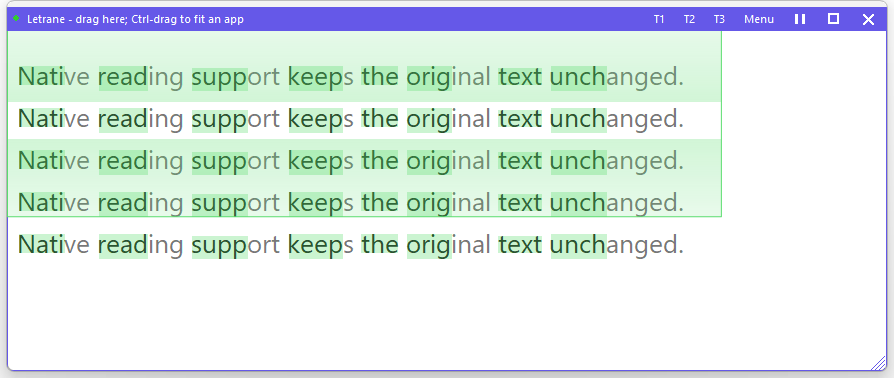
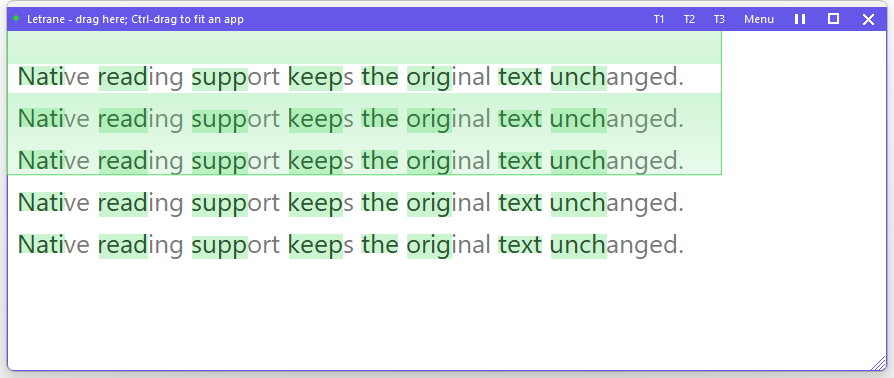
Publish Letrane 0.3.1 focus-guide documentation and screenshots

Changed region(s): [[0.0, 0.1455, 0.8154, 0.3783], [0.0, 0.4656, 0.8154, 0.582]]

diff --git a/README.md b/README.md
@@ -14,7 +14,20 @@ It is not a medical treatment and does not guarantee improved reading.
 
 **[Download the latest signed Windows EXE](https://github.com/SimonSkotheimsvik/Letrane-Releases/releases/latest)**
 
-## New in 0.3.0: native and lightweight
+## New in 0.3.1: more room to focus
+
+- Choose **1, 3, 5, 7 or 9 lines in frame**, and any odd **Lines in focus**
+  count up to that size. The focus stays centered and clear, with soft gradient
+  bands above and below it. Only the outer frame has an outline.
+- Templates preserve frame and focus counts. Shrinking the frame clamps focus
+  to the largest valid choice. The old Top/Middle selector and gradient checkbox
+  have been replaced by Lines in focus; older settings migrate to one focus line.
+- Settings sliders redraw cleanly during dragging and keyboard adjustments.
+- Template save/apply messages appear only in the normal footer.
+- Optional reporting supports the new choices, with richer Azure workbook
+  charts for usage, adoption, preferences, reporting activity and service signals.
+
+## Native and lightweight since 0.3.0
 
 Letrane has been rebuilt in native C++ using Windows APIs, replacing the bundled
 .NET/WPF application. The signed portable EXE is under 1 MB rather than roughly
@@ -74,8 +87,8 @@ of words.
   over the text you want to follow.
 - **Make the emphasis comfortable:** choose colors, emphasize the first 1–5
   characters, and adjust highlight strength or word-tail fading.
-- **Guide your place:** optionally follow the mouse with a thin reading-line
-  frame and one, three or five line-sized slots.
+- **Guide your place:** follow the mouse with a 1/3/5/7/9-line outer frame and
+  a clear centered focus area; gradients mark the lines outside the focus.
 - **Keep changes smooth:** tune how the markings respond to small webpage changes.
 - **Match your desktop:** use System, Light or Dark appearance.
 - **Start simply:** the Help tab opens first, with three quick steps and a
@@ -85,7 +98,7 @@ of words.
 
 ## Screenshots
 
-These are new captures of the actual native 0.3.0 interface, using synthetic
+These are new captures of the actual native 0.3.1 interface, using synthetic
 demonstration text and example statistics only. No personal documents or desktop
 content are shown. All screenshots of the earlier WPF app have been replaced.
 
@@ -115,7 +128,7 @@ Mouse-wheel scrolling never accidentally changes sliders or selectors.
 ### Statistics and About
 
 ![Local statistics and reporting preferences](assets/screenshots/statistics-dark.png)
-![About Letrane 0.3.0](assets/screenshots/about-dark.png)
+![About Letrane 0.3.1](assets/screenshots/about-dark.png)
 
 ## Reading templates
 
@@ -132,8 +145,10 @@ the menu.
 - **T3:** Green highlights plus tail fading, 4 characters, about 71% strength,
   five-line mouse guide with gradient.
 
-All three starter templates use smoothing at 3%, Middle placement and System
-theme. Existing saved slots and current reading options are preserved. Templates
+All three starter templates use smoothing at 3%, centered one-line focus and
+System theme. Existing slots and reading preferences are preserved except the
+retired Top/Middle and gradient settings, which migrate to centered one-line
+focus with gradient outside it. Templates
 never change assistance on/off, window position, Help preview, usage sharing or
 update-check preferences. Saved template contents stay on your device.
 
@@ -142,7 +157,9 @@ update-check preferences. Saved template contents stay on your device.
 The new defaults are **Smooth changes: 3%**, **Lead emphasis: 2** and
 **Tail fade strength: 75%**. **Highlight color** starts off, with **Yellow**
 selected; **Fade word tails** starts on. **Follow mouse** starts on with
-**3 lines**, **Middle** placement and **gradient fill**. **Color theme** is
+**3 lines in frame**, **1 line in focus**, and gradient fill outside the clear
+focus area. Matching frame and focus counts show only the outer outline.
+**Color theme** is
 **System** (shown here on a dark Windows desktop).
 
 ## The visual identity
